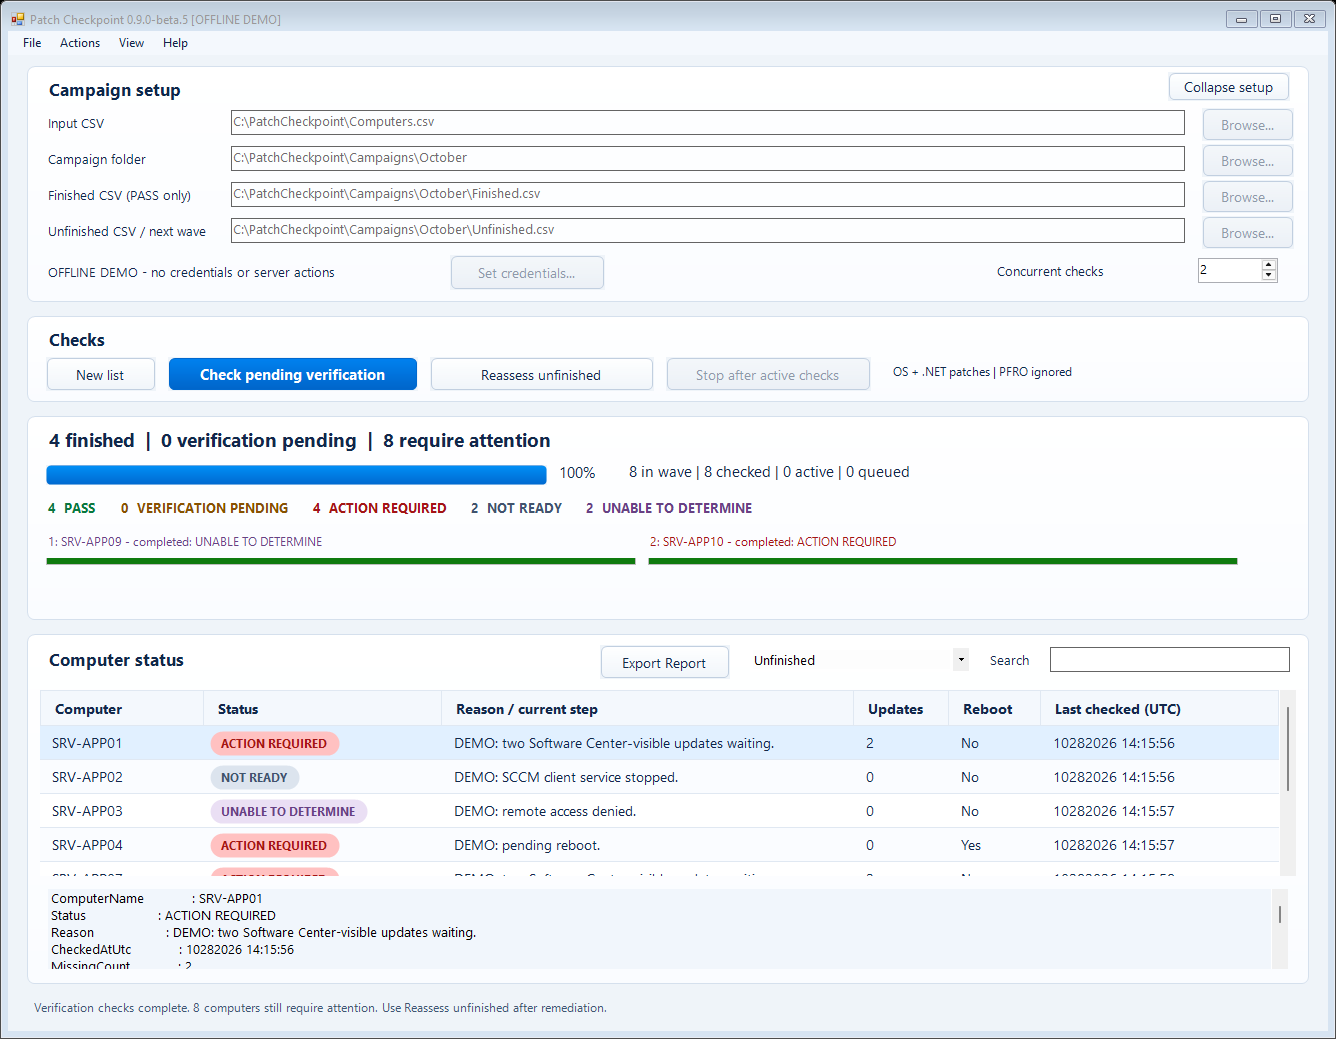
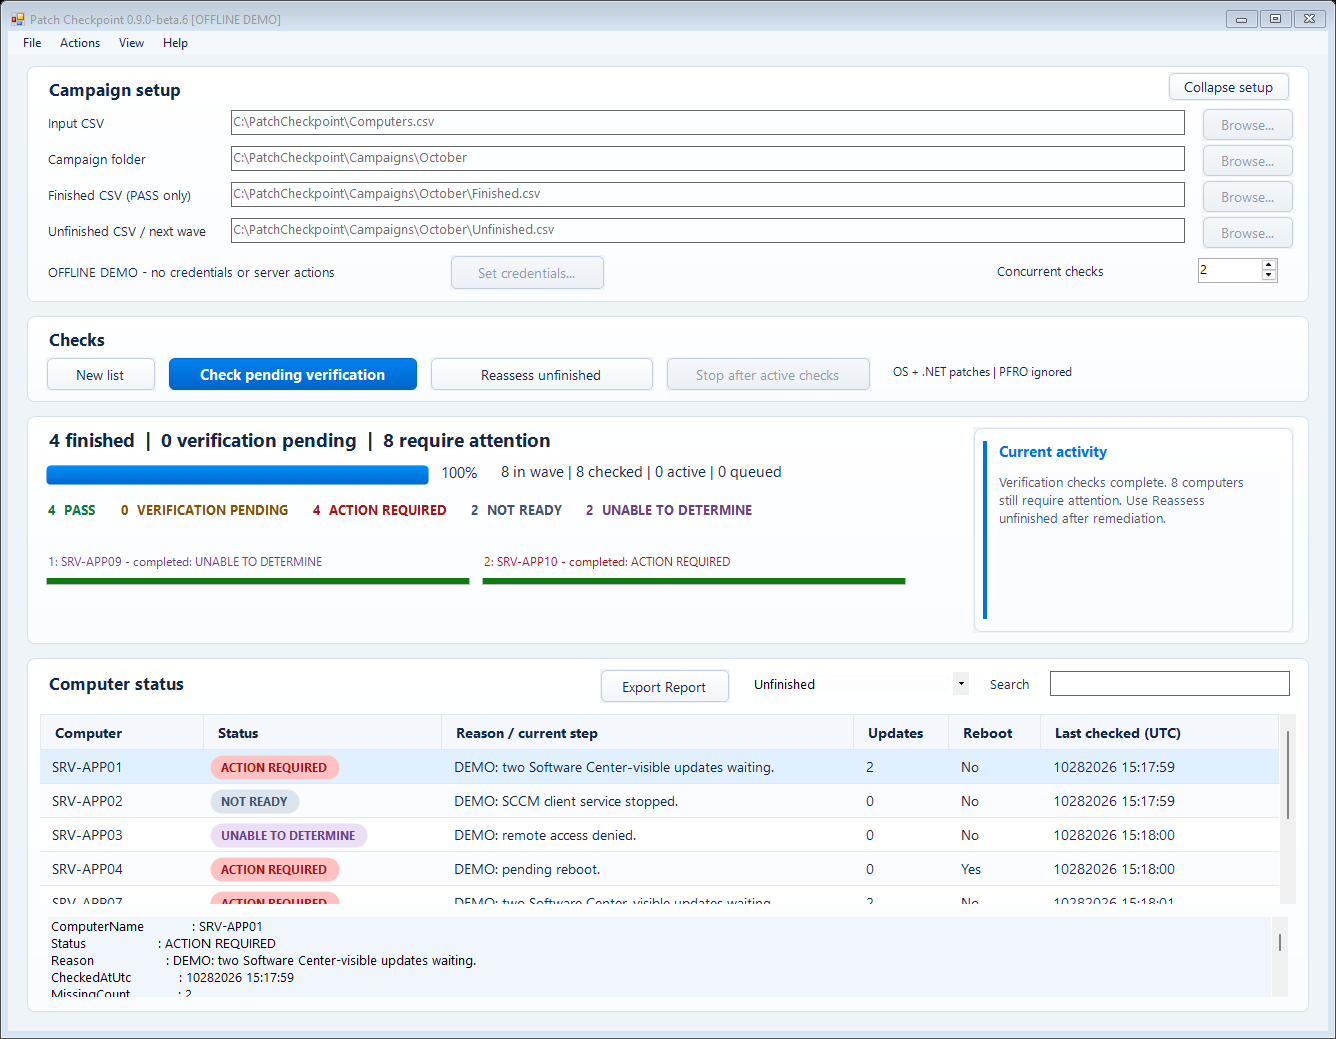
Move activity messages and countdown into progress status card

diff --git a/USER-GUIDE.md b/USER-GUIDE.md
@@ -14,7 +14,7 @@ complete Windows update inventory or an application-health assessment.
 
 Download the packaged ZIP and matching checksum from this repository's **Releases**
 page, or clone the repository and keep the source files together. The current
-version is **0.9.0-beta.5**. This is beta software; earlier 1.0.x tags were test-build
+version is **0.9.0-beta.6**. This is beta software; earlier 1.0.x tags were test-build
 labels, not a general-availability declaration. Future builds remain below 1.0 until
 the owner explicitly authorizes that transition. The owner has reported successful
 live testing of earlier builds; compatibility
@@ -244,7 +244,7 @@ The large campaign overview above the main progress bar shows **finished**,
 **verification pending**, and **require attention** totals across the whole campaign.
 Require attention counts ACTION REQUIRED, NOT READY, and UNABLE TO DETERMINE;
 active and queued computers appear separately in the wave-progress line. These
-totals remain visible when footer messages change, regardless of the table filter.
+totals remain visible when activity messages change, regardless of the table filter.
 
 ## Diagnostic export
 
@@ -522,3 +522,7 @@ powershell.exe -NoProfile -STA -File .\Test-Interface.ps1
 ## Project name and AI assistance
 
 Patch Checkpoint was created with OpenAI Codex assistance for implementation, documentation, and tests. The project owner directs requirements, review, and operational testing. The local Validation-Session.json filename is retained for compatibility with earlier builds; existing campaign data is not renamed or moved.
+
+## Current activity card
+
+Progress messages, report/export notices, errors and the next-check countdown appear in the Current activity card on the right of the progress section. The heading becomes Next check in ... during the automatic verification wait; errors use a red accent. Long messages wrap and can be scrolled. Worker bars remain on the left, and hiding them does not hide the activity card. No countdown timing or assessment behavior changes.

diff --git a/README.md b/README.md
@@ -7,9 +7,9 @@ monthly patch cycle, which need attention, and which are still waiting for scan
 verification. Keep the results together, resolve issues on the affected machines,
 and return for the next check.
 
-**Beta: 0.9.0-beta.5** · Windows PowerShell 5.1 · SCCM / Configuration Manager
+**Beta: 0.9.0-beta.6** · Windows PowerShell 5.1 · SCCM / Configuration Manager
 
-[Download the current beta](https://github.com/Smells-Like-Coffee/PatchCheckpoint/releases/tag/v0.9.0-beta.5) · [User guide](USER-GUIDE.md) · [Troubleshooting](TROUBLESHOOTING.md) · [Release notes](CHANGELOG.md)
+[Download the current beta](https://github.com/Smells-Like-Coffee/PatchCheckpoint/releases/tag/v0.9.0-beta.6) · [User guide](USER-GUIDE.md) · [Troubleshooting](TROUBLESHOOTING.md) · [Release notes](CHANGELOG.md)
 
 ![Patch Checkpoint showing campaign setup, progress, and computer status](docs/images/patch-checkpoint.png)
 

diff --git a/BUILD-NOTES.md b/BUILD-NOTES.md
@@ -1,4 +1,17 @@
-# Patch Checkpoint 0.9.0-beta.5 - 2026-10-28
+# Patch Checkpoint 0.9.0-beta.6 - 2026-10-28
+
+## Changes from 0.9.0-beta.5
+
+- Reparented the existing message label into a right-side activity card so every
+  existing status assignment, including diagnostic/export errors and countdowns,
+  uses the same presentation. No assessment or scheduling logic changed.
+- Added a dynamic countdown heading, red error accents, wrapped text and a scroll
+  container to preserve long messages. Kept the original text for diagnostic capture.
+- Reserved space on the right, retained two-column scrolling worker slots on the
+  left, allowed status badges to wrap, and reclaimed the bottom footer margin.
+- GUI regression checks cover countdown/error styling, long text, minimum-window
+  containment, worker separation, existing view toggles and the complete workflow.
+
 
 ## Changes from 0.9.0-beta.4
 

diff --git a/CHANGELOG.md b/CHANGELOG.md
@@ -1,5 +1,14 @@
 # Changelog
 
+## 0.9.0-beta.6 - 2026-10-28
+
+- Moved bottom-of-window progress, countdown, error and export messages into a
+  rounded Current activity card on the right of the progress section.
+- Added a Next check in ... countdown heading, red error accents, wrapped messages
+  and scrolling for long notices. The card remains visible when worker bars are hidden.
+- Rebalanced progress/worker layout and reclaimed the former footer space for results.
+- Preserved message text, diagnostic capture and all assessment/countdown behavior.
+
 ## 0.9.0-beta.5 - 2026-10-28
 
 - Added Help > Diagnostic Export for background, local-only support ZIPs with
